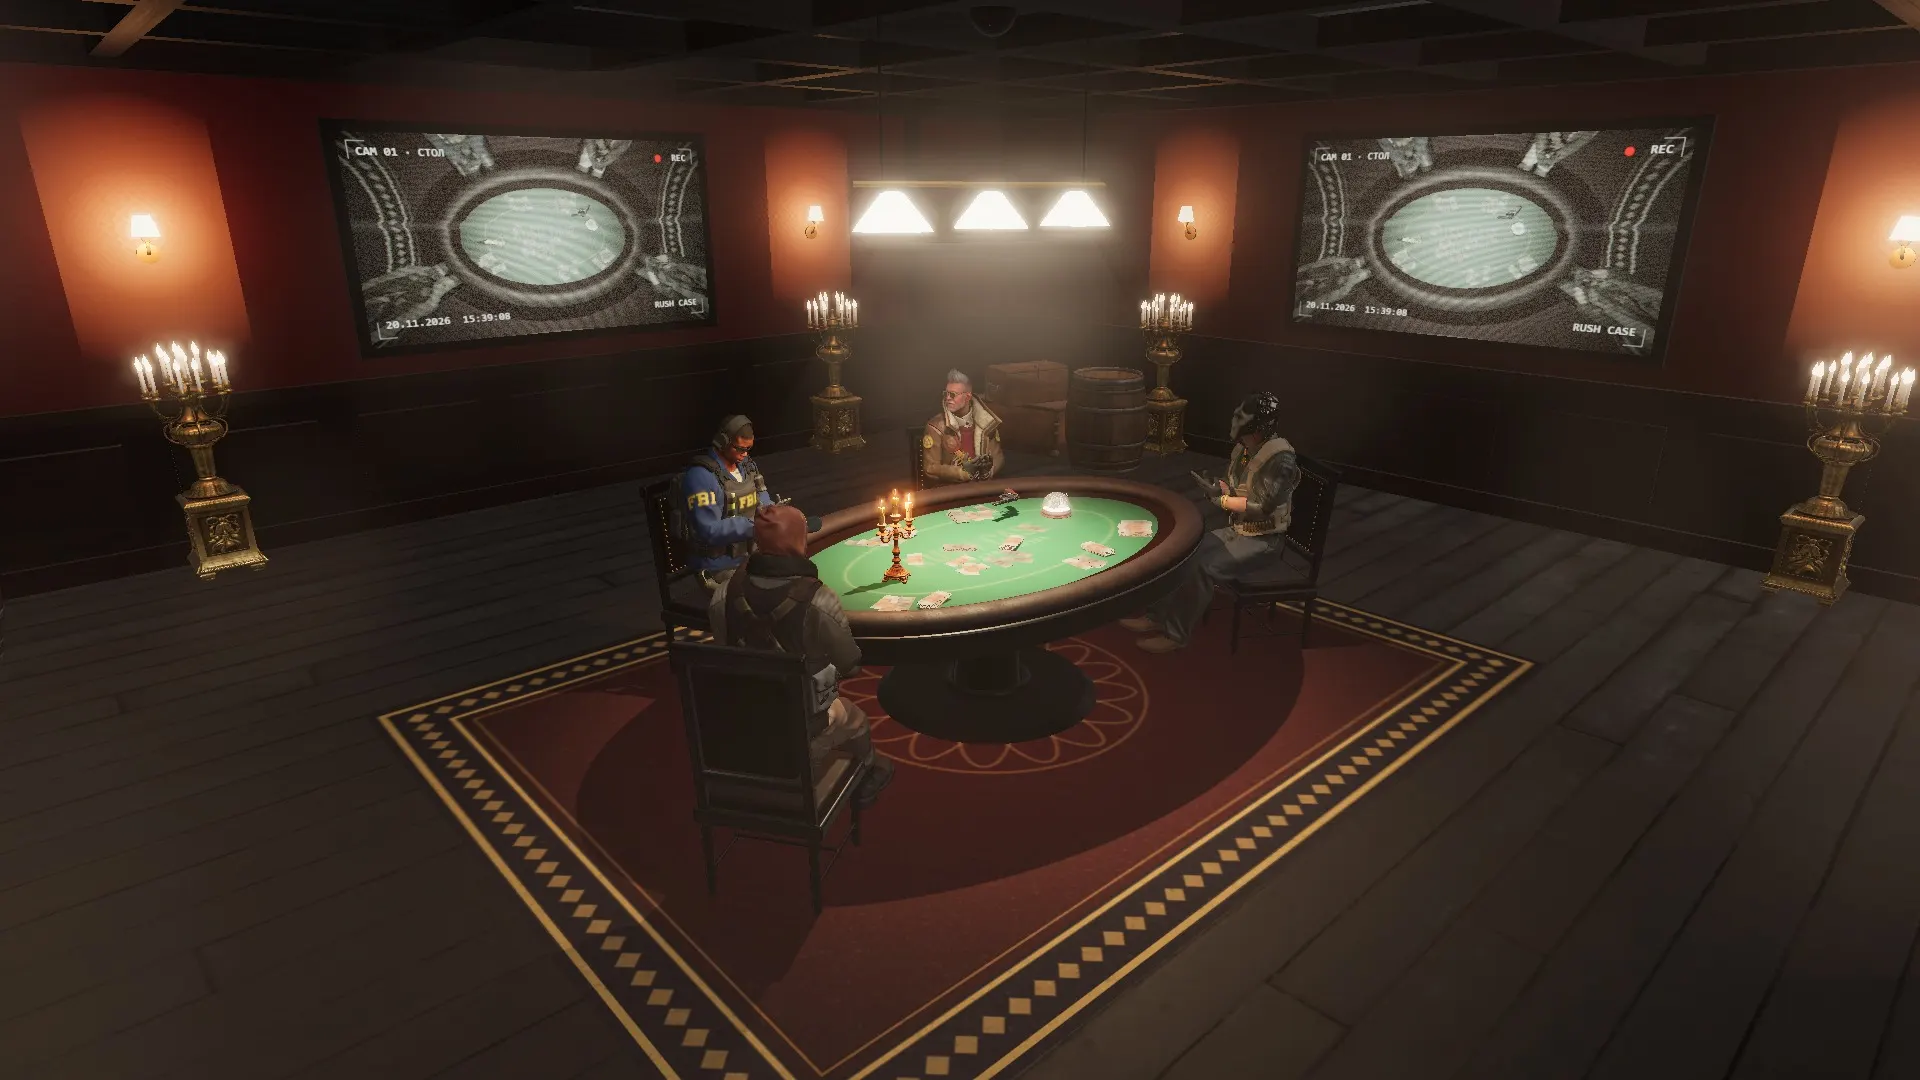
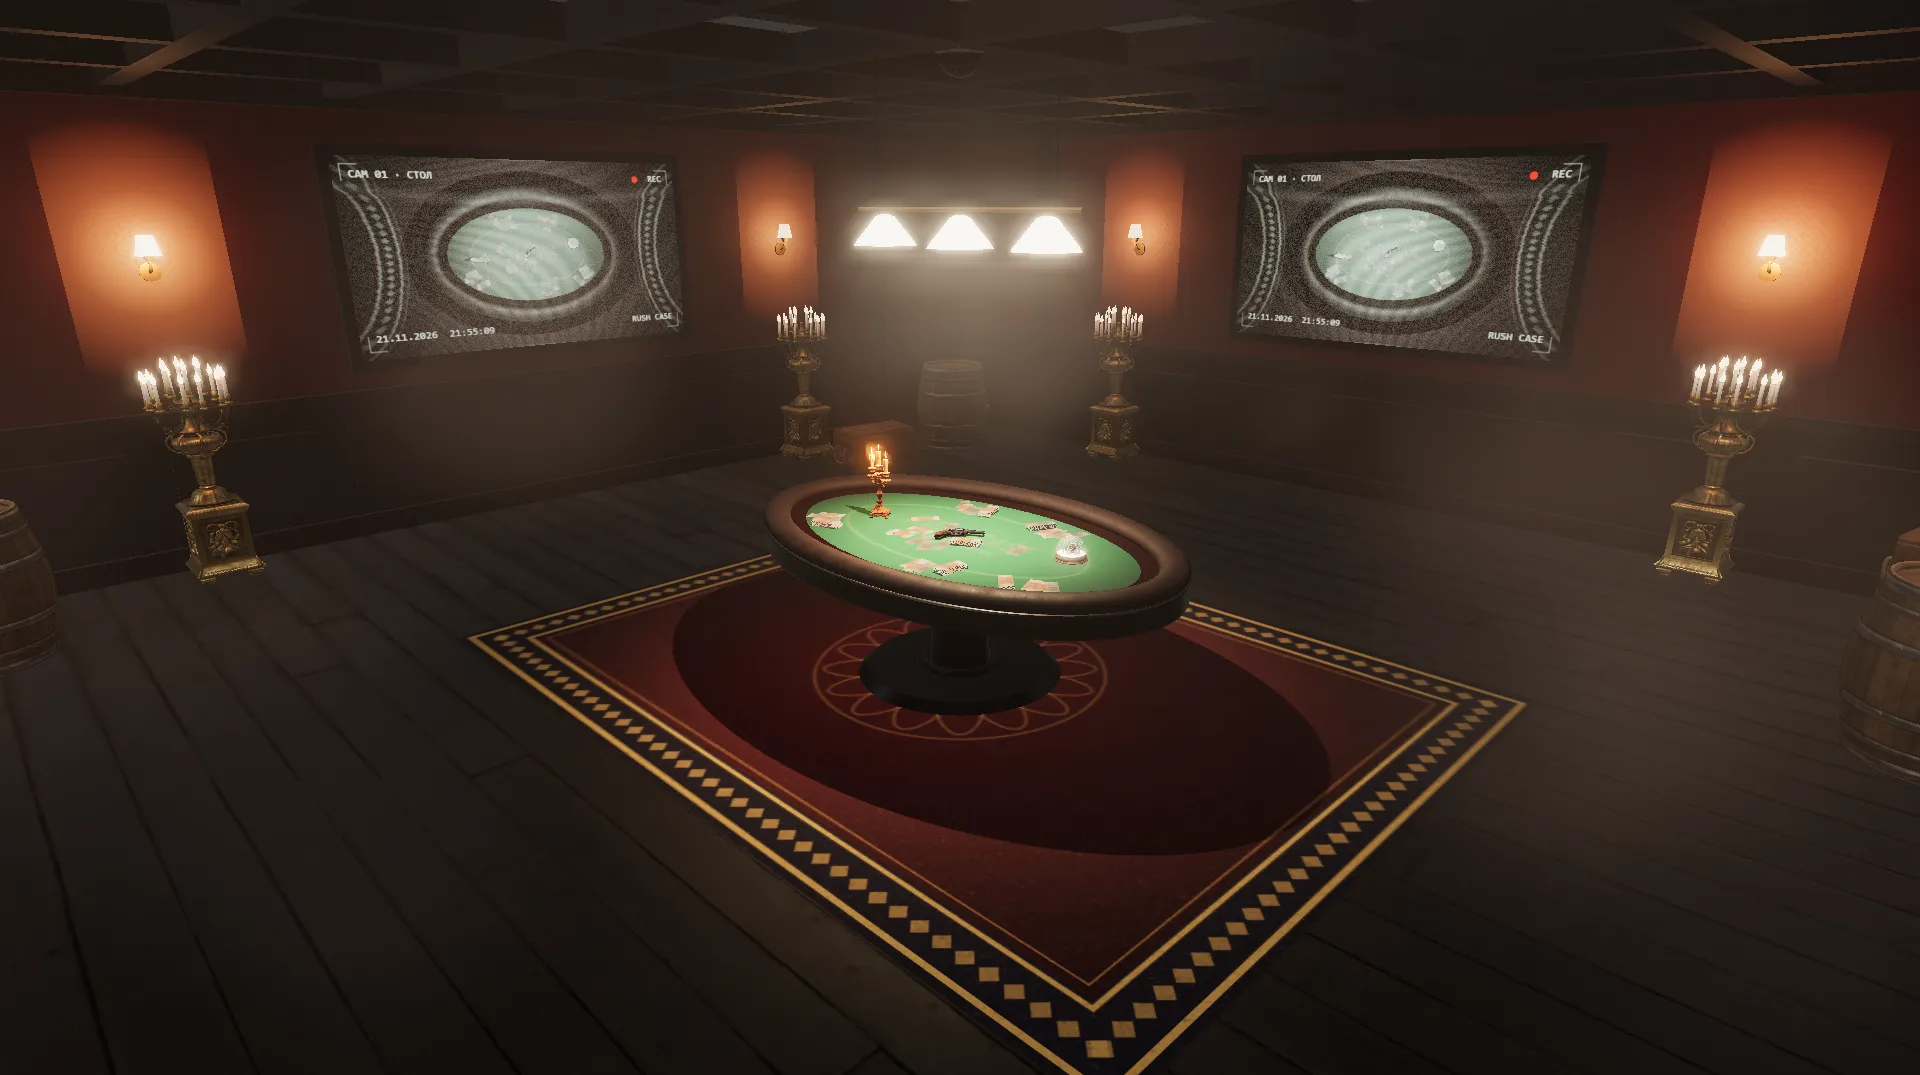
Рулетка: экран загрузки без списка игроков и логотипа, 8 кадров пустой комнаты (tools/rr/load-shot.mjs); игра админа с ботами — на деньги, если людей от двух (ставят только люди, банк — лучшему из людей); рука вверх без задержки (сигнал по каналу, опрос раз в секунду во время голосования); фоновые з

diff --git a/index.html b/index.html
@@ -32,7 +32,7 @@
 <link href="https://fonts.googleapis.com/css2?family=Manrope:wght@400;500;600;700;800&family=Unbounded:wght@500;600;700;800;900&family=Barlow+Semi+Condensed:wght@500;600&family=Ubuntu+Condensed&family=Sofia+Sans+Extra+Condensed:wght@500;700;800&family=Oswald:wght@400;500&family=Rubik:wght@400;500&family=Sofia+Sans+Semi+Condensed:ital,wght@0,500;0,600;0,700;1,800&family=PT+Mono&family=Caveat:wght@500;600;700&family=Old+Standard+TT:ital,wght@0,400;0,700;1,400&display=swap" rel="stylesheet">
 <link rel="preload" as="image" href="assets/logo.webp">
 <link rel="preload" as="image" href="assets/rcoin.webp">
-<link rel="stylesheet" href="css/style.css?v=202611212150">
+<link rel="stylesheet" href="css/style.css?v=202611212203">
 </head>
 <body>
 <div id="rot" role="alert"><div class="rot-in"><img src="assets/logo.webp" alt="RUSH CASE"><i class="rot-ph" aria-hidden="true"><i></i></i><b>Поверните телефон</b><span>RUSH CASE работает в горизонтальном режиме</span></div></div>
@@ -140,9 +140,9 @@
 
 <script type="importmap">{"imports":{"three":"https://cdn.jsdelivr.net/npm/three@0.169.0/build/three.module.min.js","three/addons/":"https://cdn.jsdelivr.net/npm/three@0.169.0/examples/jsm/"}}</script>
 <script src="https://cdn.jsdelivr.net/npm/@supabase/supabase-js@2.45.4/dist/umd/supabase.min.js"></script>
-<script src="js/skins.js?v=202611212150"></script>
-<script src="js/wears.js?v=202611212150"></script>
-<script src="js/extra.js?v=202611212150"></script>
-<script src="js/app.js?v=202611212150"></script>
+<script src="js/skins.js?v=202611212203"></script>
+<script src="js/wears.js?v=202611212203"></script>
+<script src="js/extra.js?v=202611212203"></script>
+<script src="js/app.js?v=202611212203"></script>
 </body>
 </html>

diff --git a/css/krot.css b/css/krot.css
@@ -1021,3 +1021,6 @@ button.krl-s.free:hover .krl-tag,button.krl-s.free:hover .krl-av{color:#84d9fd}
 .rr-vw.nudge{animation:rrBetIn .3s cubic-bezier(.2,.7,.3,1) both,rrVwNudge .4s .05s ease}
 .rr-vw.out{animation:rrBetOut .34s cubic-bezier(.4,0,.7,1) forwards}
 @keyframes rrVwNudge{0%,100%{translate:0}20%{translate:-5px}45%{translate:4px}70%{translate:-2px}}
+
+/* экран загрузки без логотипа и списка игроков (владелец 21.11): «Выйти» — справа */
+.rrl-top{justify-content:flex-end}

diff --git a/ЖУРНАЛ.md b/ЖУРНАЛ.md
@@ -3,6 +3,13 @@
 Записи по дням, новые сверху. Что сделано, что решили и что осталось.
 Состояние проекта целиком и план выкладки на сервер — в [ПРОГРЕСС.md](ПРОГРЕСС.md).
 
+## 21.11.2026 — ВЫКЛАДКА: экран загрузки (пустая комната), деньги в игре с ботами, рука без задержки, гул телевизора (ветка roulette → main)
+- Владелец: «Выкладывай». SQL (весь roulette.sql, 111 540 символов, с _rr_money_on) скопирован в буфер — владелец запускает в Supabase сам. Версия файлов в index.html поднята (202611212203); commit + push roulette → main.
+- **Экран загрузки** (владелец): убраны список «Игроки» и логотип «Русская рулетка» слева сверху («Выйти» — справа); новые кадры — **только пустая комната** (8 шт., assets/rr/load/1–8.webp, 930 КБ, ?v=2): общий план, сукно с деньгами, стол сверху, экран, револьвер крупно, снежный шар, пустой стол, канделябр. Сняты скриптом **tools/rr/load-shot.mjs** (демо в Chrome без окна, своя камера на каждый кадр, люди/ники/фишки скрыты; 10 ракурсов, лучшие 8 → webp через sharp). LOAD_N = 8; drawMid не перерисовывает экран загрузки (слайды идут дальше). Проверено: все 8 кадров отдаются. Сам экран загрузки в окне просмотра не открывал — «Играть» на localhost ходит в настоящий подбор (на деньги), нажимать нельзя.
+- **Ставок нет в игре с ботами** — так было задумано (бесплатная проверка). Владелец решил: в игре админа с ботами — **на деньги, если людей хотя бы двое: ставят только люди, боты не ставят, банк — лучшему из людей** (выбрал из вариантов). Сервер: _rr_money_on (очки — как раньше, только без ботов), _rr_start/rr_state/rr_search — по нему, _rr_finish — победитель банка = человек с лучшим местом, сообщение «Победил бот. Банк N ₽ забирает …». Сайт: фишки в финале едут тому, кто забрал банк (tvData.mw). Тест M (двое людей + 3 бота): ставят только люди, банк 200, расчёт и балансы сходятся, ботам денег нет — 736 проверок, 0 ошибок.
+- **Рука с задержкой** (владелец): своя рука поднимается сразу по нажатию (voteLocal), остальным — мгновенный сигнал по каналу комнаты (broadcast 'v') + сразу перечитать состояние; пока идёт голосование — опрос сервера раз в секунду (голоса ботов и конец по времени считает «ленивый таймер»).
+- **Гул телевизора не прекращался после выхода на главную** (владелец): K.stop выключает все фоновые петли (гул, сердце, дыхание, музыка).
+
 ## 21.11.2026 — ВЫКЛАДКА: сцена победителя у телевизора, звук ставки, громкий выстрел в камеру, вдвоём без голосования (ветка roulette → main)
 - Владелец: «Да, выкладывай». SQL (весь roulette.sql, с запретом голосования вдвоём) — владелец запускает в Supabase сам. Версия файлов в index.html поднята; commit + push roulette → main. Новый файл assets/rr/snd/chip.mp3. Итог: сайт обновился (версия 202611212150, chip.mp3 отдаётся).
 - Владелец: после смерти 4-го все, как и раньше, едут к телевизору; когда все у экрана и смотрят запись камеры — к победителю съезжаются все фишки, потом револьвер в центре крутится и стреляет «в камеру»: вспышка и трещина на экране (выбрал из вариантов), потом итог, как сейчас. Звука фишек нет (решение владельца).
